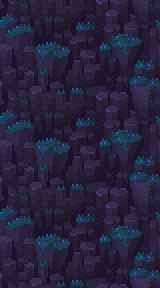
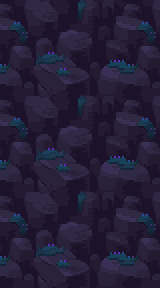
New Spirit BG, last update before release

diff --git a/Tiles/Furniture/Generator.cs b/Tiles/Furniture/Generator.cs
@@ -1,0 +1,63 @@
+using Microsoft.Xna.Framework.Graphics;
+using Microsoft.Xna.Framework;
+using SpiritMod.Items.Placeable.Furniture.Neon;
+using Terraria;
+using Terraria.Enums;
+using Terraria.ModLoader;
+using Terraria.ObjectData;
+using Terraria.ID;
+namespace SpiritMod.Tiles.Furniture
+{
+	public class Generator : ModTile
+	{
+		public override void SetDefaults()
+        {
+            Main.tileTable[Type] = true;
+            Main.tileSolidTop[Type] = true;
+            Main.tileFrameImportant[Type] = true;
+			Main.tileNoAttach[Type] = true;
+            Main.tileLighted[Type] = true;
+            Main.tileLavaDeath[Type] = true;
+			TileObjectData.newTile.CopyFrom(TileObjectData.Style3x2);
+			TileObjectData.newTile.Height = 3;
+            AddToArray(ref TileID.Sets.RoomNeeds.CountsAsTable);
+            TileObjectData.newTile.Width = 5;
+			TileObjectData.newTile.CoordinateHeights = new int[] { 16, 16, 16 };
+			TileObjectData.newTile.Direction = TileObjectDirection.PlaceLeft;
+			TileObjectData.newTile.StyleWrapLimit = 2; //not really necessary but allows me to add more subtypes of chairs below the example chair texture
+			TileObjectData.newTile.StyleMultiplier = 2; //same as above
+			TileObjectData.newTile.StyleHorizontal = true;
+			TileObjectData.newAlternate.CopyFrom(TileObjectData.newTile);
+			TileObjectData.newAlternate.Direction = TileObjectDirection.PlaceRight; //allows me to place example chairs facing the same way as the player
+			TileObjectData.addAlternate(1); //facing right will use the second texture style
+			TileObjectData.addTile(Type);
+			ModTranslation name = CreateMapEntryName();
+			name.SetDefault("Glowplate Generator");
+			AddMapEntry(new Color(60, 60, 60), name);
+			dustType = -1;
+		}
+        public override void ModifyLight(int i, int j, ref float r, ref float g, ref float b)
+        {
+            r = .052f*2;
+            g = .229f*2;
+            b = .235f*2;
+        }
+        public override void KillMultiTile(int i, int j, int frameX, int frameY)
+		{
+			Item.NewItem(i * 16, j * 16, 48, 48, ModContent.ItemType<GeneratorItem>());
+
+		}
+        public override void PostDraw(int i, int j, SpriteBatch spriteBatch)
+        {
+            Tile tile = Main.tile[i, j];
+            Vector2 zero = new Vector2(Main.offScreenRange, Main.offScreenRange);
+            if (Main.drawToScreen)
+            {
+                zero = Vector2.Zero;
+            }
+            int height = tile.frameY == 36 ? 18 : 16;
+            Main.spriteBatch.Draw(mod.GetTexture("Tiles/Furniture/Generator_Glow"), new Vector2(i * 16 - (int)Main.screenPosition.X, j * 16 - (int)Main.screenPosition.Y) + zero, new Rectangle(tile.frameX, tile.frameY, 16, height), new Color(150, 150, 150, 100), 0f, Vector2.Zero, 1f, SpriteEffects.None, 0f);
+            Tile t = Main.tile[i, j];
+        }
+    }
+}

diff --git a/Items/Placeable/Furniture/Neon/GeneratorItem.cs b/Items/Placeable/Furniture/Neon/GeneratorItem.cs
@@ -1,0 +1,44 @@
+using SpiritMod.Tiles.Furniture;
+using Terraria.ID;
+using Terraria.ModLoader;
+using SpiritMod.Items.Placeable.Tiles;
+using SpiritMod.Tiles.Block;
+namespace SpiritMod.Items.Placeable.Furniture.Neon
+{
+	public class GeneratorItem : ModItem
+	{
+		public override void SetStaticDefaults()
+		{
+			DisplayName.SetDefault("Glowplate Generator");
+		}
+
+		public override void SetDefaults()
+		{
+			item.width = 36;
+			item.height = 28;
+			item.value = item.value = Terraria.Item.buyPrice(0, 0, 5, 0);
+			item.rare = 1;
+
+			item.maxStack = 99;
+
+			item.useStyle = ItemUseStyleID.SwingThrow;
+			item.useTime = 10;
+			item.useAnimation = 15;
+
+			item.useTurn = true;
+			item.autoReuse = true;
+			item.consumable = true;
+
+			item.createTile = ModContent.TileType<Generator>();
+		}
+
+        public override void AddRecipes()
+        {
+            ModRecipe recipe = new ModRecipe(mod);
+            recipe.AddIngredient(ModContent.ItemType<TechBlockItem>(), 15);
+            recipe.AddTile(TileID.Anvils);
+            recipe.SetResult(this);
+            recipe.AddRecipe();
+        }
+    }
+}

diff --git a/Backgrounds/SpiritUgBgStyle.cs b/Backgrounds/SpiritUgBgStyle.cs
@@ -13,8 +13,8 @@ namespace SpiritMod.Backgrounds
 			textureSlots[1] = mod.GetBackgroundSlot("Backgrounds/SpiritBiomeUG1");
 			textureSlots[2] = mod.GetBackgroundSlot("Backgrounds/SpiritBiomeUG2");
 			textureSlots[3] = mod.GetBackgroundSlot("Backgrounds/SpiritBiomeUG3");
-			textureSlots[4] = mod.GetBackgroundSlot("Backgrounds/SpiritBiomeUG4");
-			///textureSlots[5] = mod.GetBackgroundSlot("Backgrounds/SpiritBiomeUG5");
+			textureSlots[4] = mod.GetBackgroundSlot("Backgrounds/SpiritBiomeUG5");
+			textureSlots[5] = mod.GetBackgroundSlot("Backgrounds/SpiritBiomeUG4");
 		}
 	}
 }
